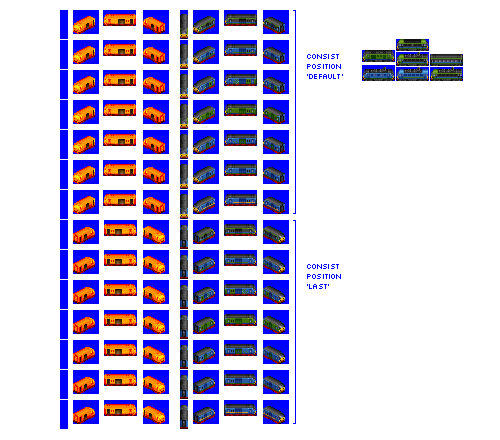
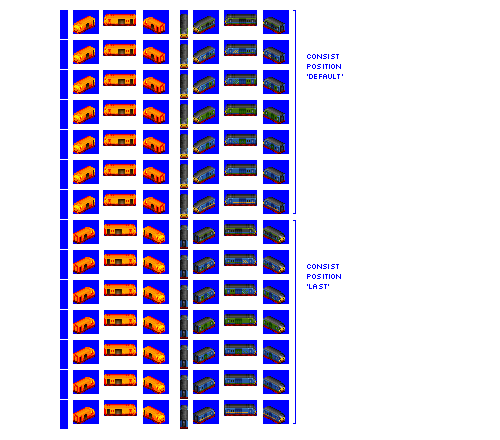
Change: additional liveries for gen 6 high speed driving cabs

Changed region(s): [[0.72, 0.0886, 0.93, 0.2068]]

diff --git a/src/vehicles/pony/driving_cab_high_speed_passenger_pony_gen_6.py b/src/vehicles/pony/driving_cab_high_speed_passenger_pony_gen_6.py
@@ -11,8 +11,8 @@ def main(**kwargs):
         name="High Speed Driving Trailer",
         subrole_child_branch_num=-3,  # driving cab cars are probably jokers?
         gen=6,
-        livery_group_name="gen_6_pax_liveries",  # override default liveries from gestalt
         lgv_capable=True,  # for lolz
+        livery_group_name="gen_5_and_6_pax_liveries",  # override default liveries from gestalt
         sprites_complete=True,
     )
 
